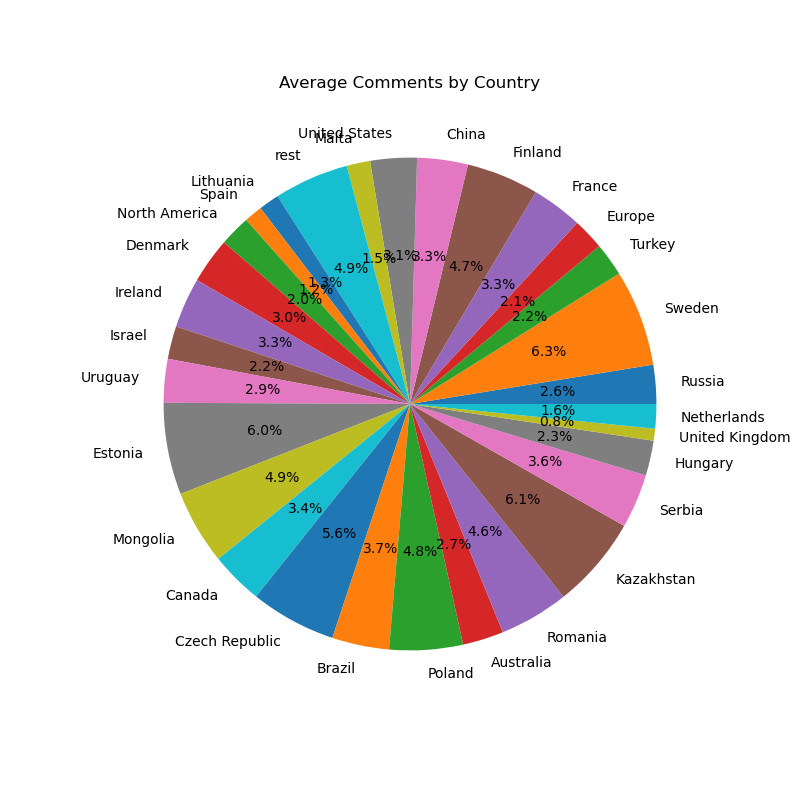
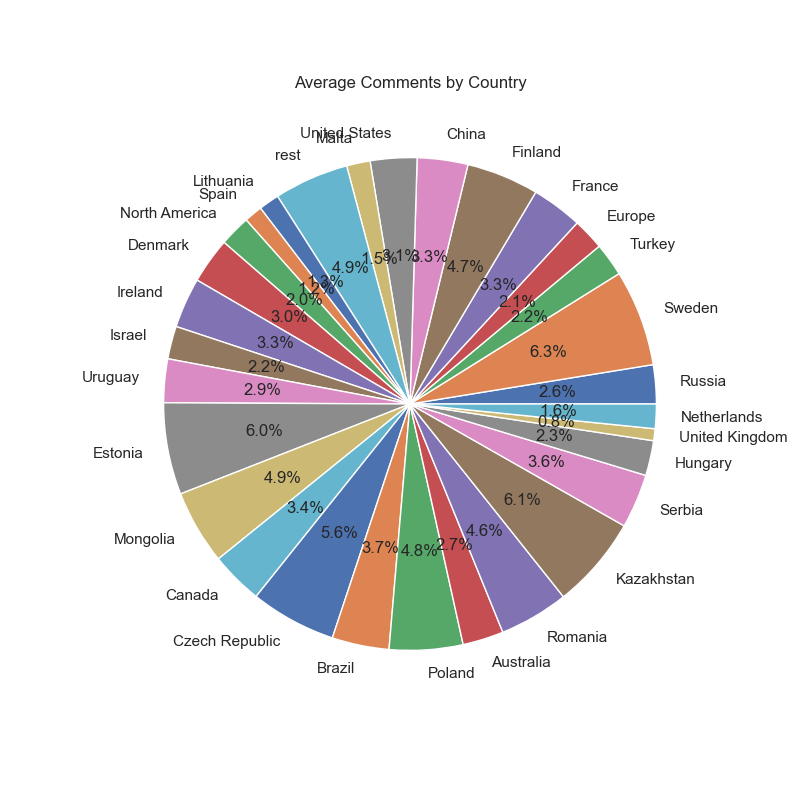
edit README

diff --git a/analysis.py b/analysis.py
@@ -1,5 +1,8 @@
 import pandas as pd
 import matplotlib.pyplot as plt
+import seaborn as sns
+
+sns.set()
 
 df = pd.read_csv("processed_data.example.csv")
 

diff --git a/README.md b/README.md
@@ -60,7 +60,8 @@ $ $SPARK_HOME/sbin/start-worker.sh spark://<HOST_IP>:7077
 ## 💻 | Analysis 
 
 - The analysis is done using Spark SQL.
-- Here are some of the analysis done on the data:
+- The visualizations are done using [Matplotlib](https://matplotlib.org/) and [Seaborn](https://seaborn.pydata.org/).
+- Here is some of the analysis done on the data:
 
 |                  Avg Comments by Country                 |                    Max Comments by Country               |
 |:-------------------------------------:|:-------------------------------------:|
